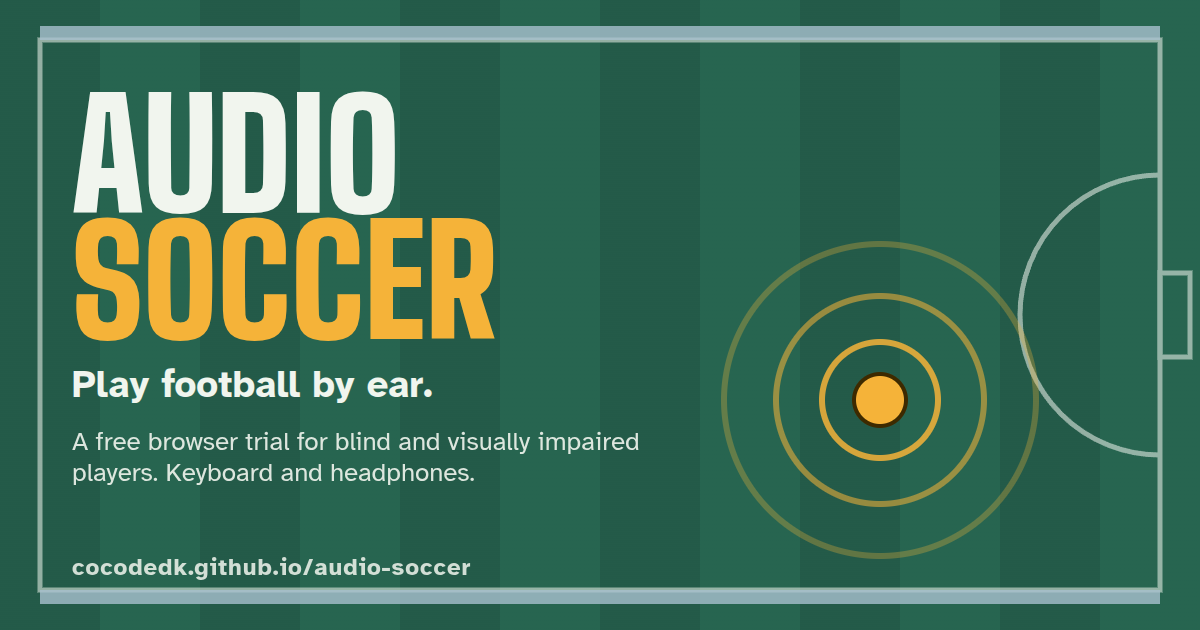
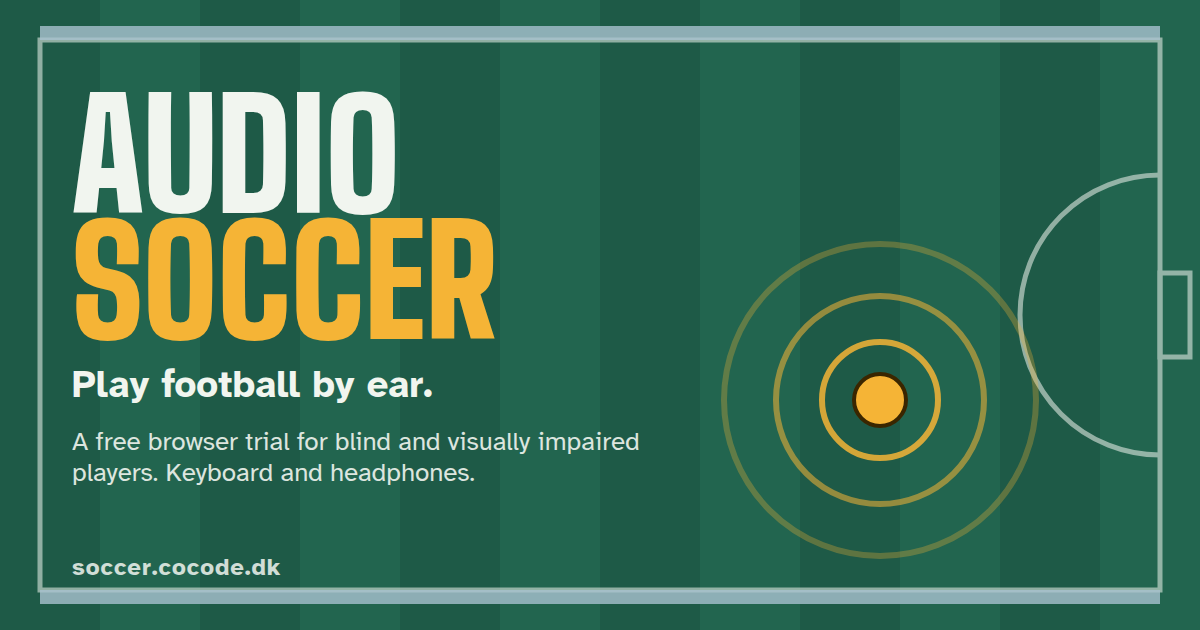
chore: move the site to soccer.cocode.dk
The Pages site now has a custom domain. Update the address in the README,
the design doc, the overview page and the site metadata, and re-render the
share image with it.

Changed region(s): [[0.0617, 0.6937, 0.5242, 0.7841], [0.0617, 0.8746, 0.4008, 0.9349]]

diff --git a/site/head.html b/site/head.html
@@ -4,15 +4,15 @@
 <meta charset="utf-8">
 <meta name="viewport" content="width=device-width, initial-scale=1, viewport-fit=cover">
 <meta name="description" content="Play football by ear. A free browser trial for blind and visually impaired players: find the ball, score and beat a keeper using only sound, with a keyboard and speakers or headphones.">
-<link rel="canonical" href="https://cocodedk.github.io/audio-soccer/">
+<link rel="canonical" href="https://soccer.cocode.dk/">
 <link rel="icon" href="favicon.svg" type="image/svg+xml">
 <meta name="theme-color" content="#1E5A47">
 <meta property="og:type" content="website">
 <meta property="og:site_name" content="Audio Soccer">
 <meta property="og:title" content="Audio Soccer Trial: play football by ear">
 <meta property="og:description" content="A free browser trial for blind and visually impaired players. Find the ball, score and beat a keeper using only sound.">
-<meta property="og:url" content="https://cocodedk.github.io/audio-soccer/">
-<meta property="og:image" content="https://cocodedk.github.io/audio-soccer/og.png">
+<meta property="og:url" content="https://soccer.cocode.dk/">
+<meta property="og:image" content="https://soccer.cocode.dk/og.png">
 <meta property="og:image:width" content="1200">
 <meta property="og:image:height" content="630">
 <meta property="og:image:alt" content="Audio Soccer: a top-down football pitch with sound rings spreading from the ball.">
@@ -20,14 +20,14 @@
 <meta name="twitter:card" content="summary_large_image">
 <meta name="twitter:title" content="Audio Soccer Trial: play football by ear">
 <meta name="twitter:description" content="A free browser trial for blind and visually impaired players. Find the ball, score and beat a keeper using only sound.">
-<meta name="twitter:image" content="https://cocodedk.github.io/audio-soccer/og.png">
+<meta name="twitter:image" content="https://soccer.cocode.dk/og.png">
 <meta name="twitter:image:alt" content="Audio Soccer: a top-down football pitch with sound rings spreading from the ball.">
 <script type="application/ld+json">
 {
   "@context": "https://schema.org",
   "@type": "VideoGame",
   "name": "Audio Soccer Trial",
-  "url": "https://cocodedk.github.io/audio-soccer/",
+  "url": "https://soccer.cocode.dk/",
   "description": "A browser trial of an audio-first 5-a-side football game for blind and visually impaired players. Find the ball, score and beat a keeper using only sound.",
   "genre": ["Sports", "Audio game"],
   "gamePlatform": "Web browser",
@@ -36,7 +36,7 @@
   "isAccessibleForFree": true,
   "accessMode": ["auditory"],
   "accessModeSufficient": "auditory",
-  "image": "https://cocodedk.github.io/audio-soccer/og.png",
+  "image": "https://soccer.cocode.dk/og.png",
   "author": { "@type": "Person", "name": "Babak Bandpey", "url": "https://linkedin.com/in/babakbandpey" },
   "publisher": { "@type": "Organization", "name": "Cocode", "url": "https://cocode.dk" }
 }

diff --git a/docs/overview.html b/docs/overview.html
@@ -249,7 +249,7 @@ footer { padding-block: 28px 0; border-top: 1px solid var(--rule); font-size: .9
     <h2 id="h-build">Build order</h2>
     <p class="prose">Android first, same build as the chess app. Each step goes to the tester, and their feedback decides the next one.</p>
     <ol class="steps">
-      <li><span class="n">0a</span><h3>Navigation prototype</h3><p>Built. A browser page for a computer, on speakers or headphones, in English or Persian: find a still ball, take it to the goal, beat a keeper. It tests whether the sounds are enough to play by ear. <a href="https://cocodedk.github.io/audio-soccer/">Open the live prototype</a>.</p></li>
+      <li><span class="n">0a</span><h3>Navigation prototype</h3><p>Built. A browser page for a computer, on speakers or headphones, in English or Persian: find a still ball, take it to the goal, beat a keeper. It tests whether the sounds are enough to play by ear. <a href="https://soccer.cocode.dk/">Open the live prototype</a>.</p></li>
       <li><span class="n">0b</span><h3>Phone controls test</h3><p>Throwaway. The three control options on the tester's phone with TalkBack on, on the phone's speaker, plus two vibration cues.</p></li>
       <li><span class="n">1</span><h3>Penalty shootout</h3><p>Five each. Aim and time your shot, or listen to the run-up and dive. Proves the sound, commentator and controls.</p></li>
       <li><span class="n">2</span><h3>Training pitch</h3><p>You, the ball, the goal and the goal guide. Learn to find the ball, dribble and shoot. Plus the sound gallery.</p></li>

diff --git a/site/og.html b/site/og.html
@@ -40,7 +40,7 @@
     <p>Play football by ear.</p>
     <p class="sub">A free browser trial for blind and visually impaired players. Keyboard and headphones.</p>
   </div>
-  <div class="url">cocodedk.github.io/audio-soccer</div>
+  <div class="url">soccer.cocode.dk</div>
 </div>
 </body>
 </html>

diff --git a/docs/DESIGN.md b/docs/DESIGN.md
@@ -296,7 +296,7 @@ My calls:
 Each slice goes to the tester and waits for their feedback before the next one starts.
 
 0a. **Navigation prototype** (built, in `prototype/`, live at
-    https://cocodedk.github.io/audio-soccer/): a browser page for a computer with a keyboard,
+    https://soccer.cocode.dk/): a browser page for a computer with a keyboard,
     played on speakers by default. A clear "computer only" notice sits at the top. A sound setting
     switches between speakers (no panning, side calls as short recorded clips, beacons that speed
     up as you near them, and a gentle distance fade with a floor, so a far ball stays audible) and
@@ -317,7 +317,7 @@ Each slice goes to the tester and waits for their feedback before the next one s
     sounds are enough to play by ear on speakers before any Android work.
 
 0b. **Phone controls test** (built, throwaway, in `prototype/phone/`, live at
-    https://cocodedk.github.io/audio-soccer/phone/): a page in the phone's browser, played on the
+    https://soccer.cocode.dk/phone/): a page in the phone's browser, played on the
     phone's speaker, that reuses the trial's game, sounds, clips, speech and two languages: nothing
     to install. With TalkBack on, the start screen is an ordinary page with a Start button. Start
     tries up to three voices in turn until one really starts speaking: the chosen language first (a

diff --git a/README.md b/README.md
@@ -1,6 +1,6 @@
 # Audio Soccer
 
-**Play the trial:** https://cocodedk.github.io/audio-soccer/
+**Play the trial:** https://soccer.cocode.dk/
 
 An audio-first 5-a-side football game for blind and visually impaired players. Every pass, tackle
 and shot is a sound you can place. The rules borrow from blind football, the Paralympic sport built
@@ -49,7 +49,7 @@ lining up with the goal by ear is part of the test.
 
 ## Phone controls test
 
-**Try it on an Android phone:** https://cocodedk.github.io/audio-soccer/phone/
+**Try it on an Android phone:** https://soccer.cocode.dk/phone/
 
 A throwaway test, played on the phone's speaker with the screen reader off. It answers which touch
 steering works by ear, whether vibration helps, and whether the game's own voice is enough to get
